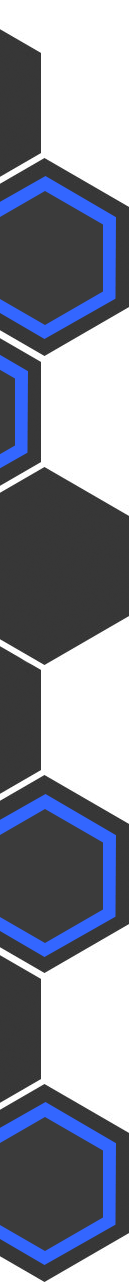
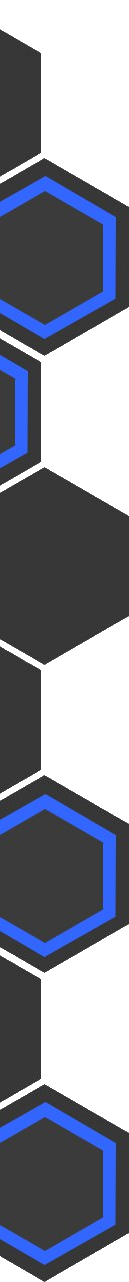
background paralax

diff --git a/front/index.html b/front/index.html
@@ -7,86 +7,179 @@
 	<meta name="keywords" content="игры Playstation TeeHive TeeNik код программирование консоли комиксы гик ">
 	<meta name="author" content="TeeCamp TeeNik">
 	<meta name="theme-color" content="#ff6600" />
-	
 	<title>No name</title>
 	<link rel="stylesheet" href="../public/stylesheets/hexagons.css">
 	<link rel="stylesheet" href="../public/stylesheets/main.css">
 	<link rel="stylesheet" href="../public/stylesheets/menu.css">
 	<link rel="stylesheet" type="text/css" href="//fonts.googleapis.com/css?family=PT+Sans+Narrow" />
-	<link rel="icon" type="image/png" href="../public/static/ic.png">
-</head>
+	<link rel="icon" type="image/png" href="../public/static/ic.png"> </head>
 
 <body>
-	<div class="header" href="teesite.herokuapp.com"></div>
-	<div class="grid">
-		<div class="grid-item grid-item1 left"></div>
-		<div class="grid-item grid-item2">
-			<ul id="hexGrid">
-				<li class="hex">
-					<div class="hexIn">
-						<div class="hexLink" > <img src="../public/static/hex.jpg" alt="" />
-							<h1 class="upperH1">Up title sdafasdf adfasdfasdfasd sdfadf asdfasdf sd</h1>
-							<h1 class="downH1">This is a title</h1>
-							<div class="downP" ><a href="1">Author erwtwert</a></div>
-						</div>
-					</div>
-				</li>
-				<li class="hex">
-					<div class="hexIn">
-						<a class="hexLink" href="#"> <img src="../public/static/h2.png" alt="" />
-							<h1>This is a title</h1>
-							<p>Some sample text about the article this hexagon leads to</p>
-						</a>
-					</div>
-				</li>
-				<li class="hex">
-					<div class="hexIn">
-						<a class="hexLink" href="#"> <img src="../public/static/h2.png" alt="" />
-							<h1>This is a title</h1>
-							<p>Some sample text about the article this hexagon leads to</p>
-						</a>
-					</div>
-				</li>
-				<li class="hex">
-					<div class="hexIn">
-						<a class="hexLink" href="#"> <img src="../public/static/h2.png" alt="" />
-							<h1>This is a title</h1>
-							<p>Some sample text about the article this hexagon leads to</p>
-						</a>
-					</div>
-				</li>
-				<li class="hex">
-					<div class="hexIn">
-						<a class="hexLink" href="#"> <img src="../public/static/h2.png" alt="" />
-							<h1>This is a title</h1>
-							<p>Some sample text about the article this hexagon leads to</p>
-						</a>
-					</div>
-				</li>
-				<li class="hex">
-					<div class="hexIn"> </div>
-				</li>
-
-			</ul>
-		</div>
-		<div class="grid-item grid-item3 right"></div>
-	</div>
-    <input type="checkbox" id="nav-toggle" hidden>
-    <nav class="nav">
-        <label for="nav-toggle" id='menuCheck' class="nav-toggle" onclick></label>
-        <h2 class="logo"> 
+	
+		<div class="header" href="teesite.herokuapp.com"></div>
+		<div class="grid">
+				<div class="grid-item grid-item1 left"></div>
+				<div class="grid-item grid-item2">
+					<ul id="hexGrid">
+						<li class="hex">
+							<div class="hexIn">
+								<div class="hexLink"> <img src="../public/static/hex.jpg" alt="" />
+									<h1 class="upperH1">Up title sdafasdf adfasdfasdfasd sdfadf asdfasdf sd</h1>
+									<h1 class="downH1">This is a title</h1>
+									<div class="downP"><a href="1">Author erwtwert</a></div>
+								</div>
+							</div>
+						</li>
+						<li class="hex">
+							<div class="hexIn">
+								<a class="hexLink" href="#"> <img src="../public/static/h2.png" alt="" />
+									<h1>This is a title</h1>
+									<p>Some sample text about the article this hexagon leads to</p>
+								</a>
+							</div>
+						</li>
+						<li class="hex">
+							<div class="hexIn">
+								<a class="hexLink" href="#"> <img src="../public/static/h2.png" alt="" />
+									<h1>This is a title</h1>
+									<p>Some sample text about the article this hexagon leads to</p>
+								</a>
+							</div>
+						</li>
+						<li class="hex">
+							<div class="hexIn">
+								<a class="hexLink" href="#"> <img src="../public/static/h2.png" alt="" />
+									<h1>This is a title</h1>
+									<p>Some sample text about the article this hexagon leads to</p>
+								</a>
+							</div>
+						</li>
+						<li class="hex">
+							<div class="hexIn">
+								<a class="hexLink" href="#"> <img src="../public/static/h2.png" alt="" />
+									<h1>This is a title</h1>
+									<p>Some sample text about the article this hexagon leads to</p>
+								</a>
+							</div>
+						</li>
+						<li class="hex">
+							<div class="hexIn">
+								<a class="hexLink" href="#"> <img src="../public/static/h2.png" alt="" />
+									<h1>This is a title</h1>
+									<p>Some sample text about the article this hexagon leads to</p>
+								</a>
+							</div>
+						</li>
+						<li class="hex">
+							<div class="hexIn">
+								<a class="hexLink" href="#"> <img src="../public/static/h2.png" alt="" />
+									<h1>This is a title</h1>
+									<p>Some sample text about the article this hexagon leads to</p>
+								</a>
+							</div>
+						</li>
+						<li class="hex">
+							<div class="hexIn">
+								<a class="hexLink" href="#"> <img src="../public/static/h2.png" alt="" />
+									<h1>This is a title</h1>
+									<p>Some sample text about the article this hexagon leads to</p>
+								</a>
+							</div>
+						</li>
+						<li class="hex">
+							<div class="hexIn">
+								<a class="hexLink" href="#"> <img src="../public/static/h2.png" alt="" />
+									<h1>This is a title</h1>
+									<p>Some sample text about the article this hexagon leads to</p>
+								</a>
+							</div>
+						</li>
+						<li class="hex">
+							<div class="hexIn">
+								<a class="hexLink" href="#"> <img src="../public/static/h2.png" alt="" />
+									<h1>This is a title</h1>
+									<p>Some sample text about the article this hexagon leads to</p>
+								</a>
+							</div>
+						</li>
+						<li class="hex">
+							<div class="hexIn">
+								<a class="hexLink" href="#"> <img src="../public/static/h2.png" alt="" />
+									<h1>This is a title</h1>
+									<p>Some sample text about the article this hexagon leads to</p>
+								</a>
+							</div>
+						</li>
+						<li class="hex">
+							<div class="hexIn">
+								<a class="hexLink" href="#"> <img src="../public/static/h2.png" alt="" />
+									<h1>This is a title</h1>
+									<p>Some sample text about the article this hexagon leads to</p>
+								</a>
+							</div>
+						</li>
+						<li class="hex">
+							<div class="hexIn">
+								<a class="hexLink" href="#"> <img src="../public/static/h2.png" alt="" />
+									<h1>This is a title</h1>
+									<p>Some sample text about the article this hexagon leads to</p>
+								</a>
+							</div>
+						</li>
+						<li class="hex">
+							<div class="hexIn">
+								<a class="hexLink" href="#"> <img src="../public/static/h2.png" alt="" />
+									<h1>This is a title</h1>
+									<p>Some sample text about the article this hexagon leads to</p>
+								</a>
+							</div>
+						</li>
+						<li class="hex">
+							<div class="hexIn">
+								<a class="hexLink" href="#"> <img src="../public/static/h2.png" alt="" />
+									<h1>This is a title</h1>
+									<p>Some sample text about the article this hexagon leads to</p>
+								</a>
+							</div>
+						</li>
+						<li class="hex">
+							<div class="hexIn">
+								<a class="hexLink" href="#"> <img src="../public/static/h2.png" alt="" />
+									<h1>This is a title</h1>
+									<p>Some sample text about the article this hexagon leads to</p>
+								</a>
+							</div>
+						</li>
+						<li class="hex">
+							<div class="hexIn"> </div>
+						</li>
+					</ul>
+				</div>
+				<div class="grid-item grid-item3 right"></div>
+			</div>
+	<input type="checkbox" id="nav-toggle" hidden>
+	<nav class="nav">
+		<label for="nav-toggle" id='menuCheck' class="nav-toggle" onclick></label>
+		<h2 class="logo"> 
             <a href="">TeeSite</a> 
         </h2>
-        <ul>
-            <li><a target="_blank" href="https://teesite.herokuapp.com/">Главная</a>
-            <li><a target="_blank" href="#2">О нас</a>
-            <li><a target="_blank" href="https://github.com/TeeNik">Код</a>
-            <li><a target="_blank" href="https://www.twitch.tv/">Twitch</a>
-            <li><a target="_blank" href="https://vk.com/teenik3315">Vk</a>
-        </ul>
-    </nav>
-    <div class="mask-content"></div>
-    <div id="disqus_thread"></div>
+		<ul>
+			<li><a target="_blank" href="https://teesite.herokuapp.com/">Главная</a>
+				<li><a target="_blank" href="#2">О нас</a>
+					<li><a target="_blank" href="https://github.com/TeeNik">Код</a>
+						<li><a target="_blank" href="https://www.twitch.tv/">Twitch</a>
+							<li><a target="_blank" href="https://vk.com/teenik3315">Vk</a> </ul>
+	</nav>
+	<div class="mask-content"></div>
+	<div id="disqus_thread"></div>
+	
+	<script>
+	
+	window.addEventListener('scroll', function(){
+			document.body.style.backgroundPositionY = window.pageYOffset * 0.5 + 'px';
+		});	
+	</script>
+	
 </body>
 
 </html>

diff --git a/public/scripts/manage.js b/public/scripts/manage.js
@@ -7,5 +7,9 @@
 	let mask = document.getElementById("mask-content");
 	mask.addEventListener('click', function(){
 		document.getElementById('nav-toggle').checked = false;
-	})	
+	})
+
+    window.addEventListener('scroll', function(){
+        document.body.style.backgroundPositionY = window.pageYOffset * 0.5 + 'px';
+    });
 })();

diff --git a/public/stylesheets/main.css b/public/stylesheets/main.css
@@ -1,6 +1,9 @@
 body{
 	font-family: "PT Sans Narrow";
 	font-size: 1vw;
+	background-image: url(../static/back.jpg);
+	background-repeat:repeat-y;
+	background-size: 100%;
 }
 
 .header{
@@ -49,6 +52,7 @@ body{
 }
 
 .post-content{
+
 	font-family: "PT Sans Narrow";
 	font-size: 1.3vw;
 }

diff --git a/public/stylesheets/hexagons.css b/public/stylesheets/hexagons.css
@@ -1,4 +1,4 @@
-* {
+ * {
 	margin: 0;
 	padding: 0;
 }
